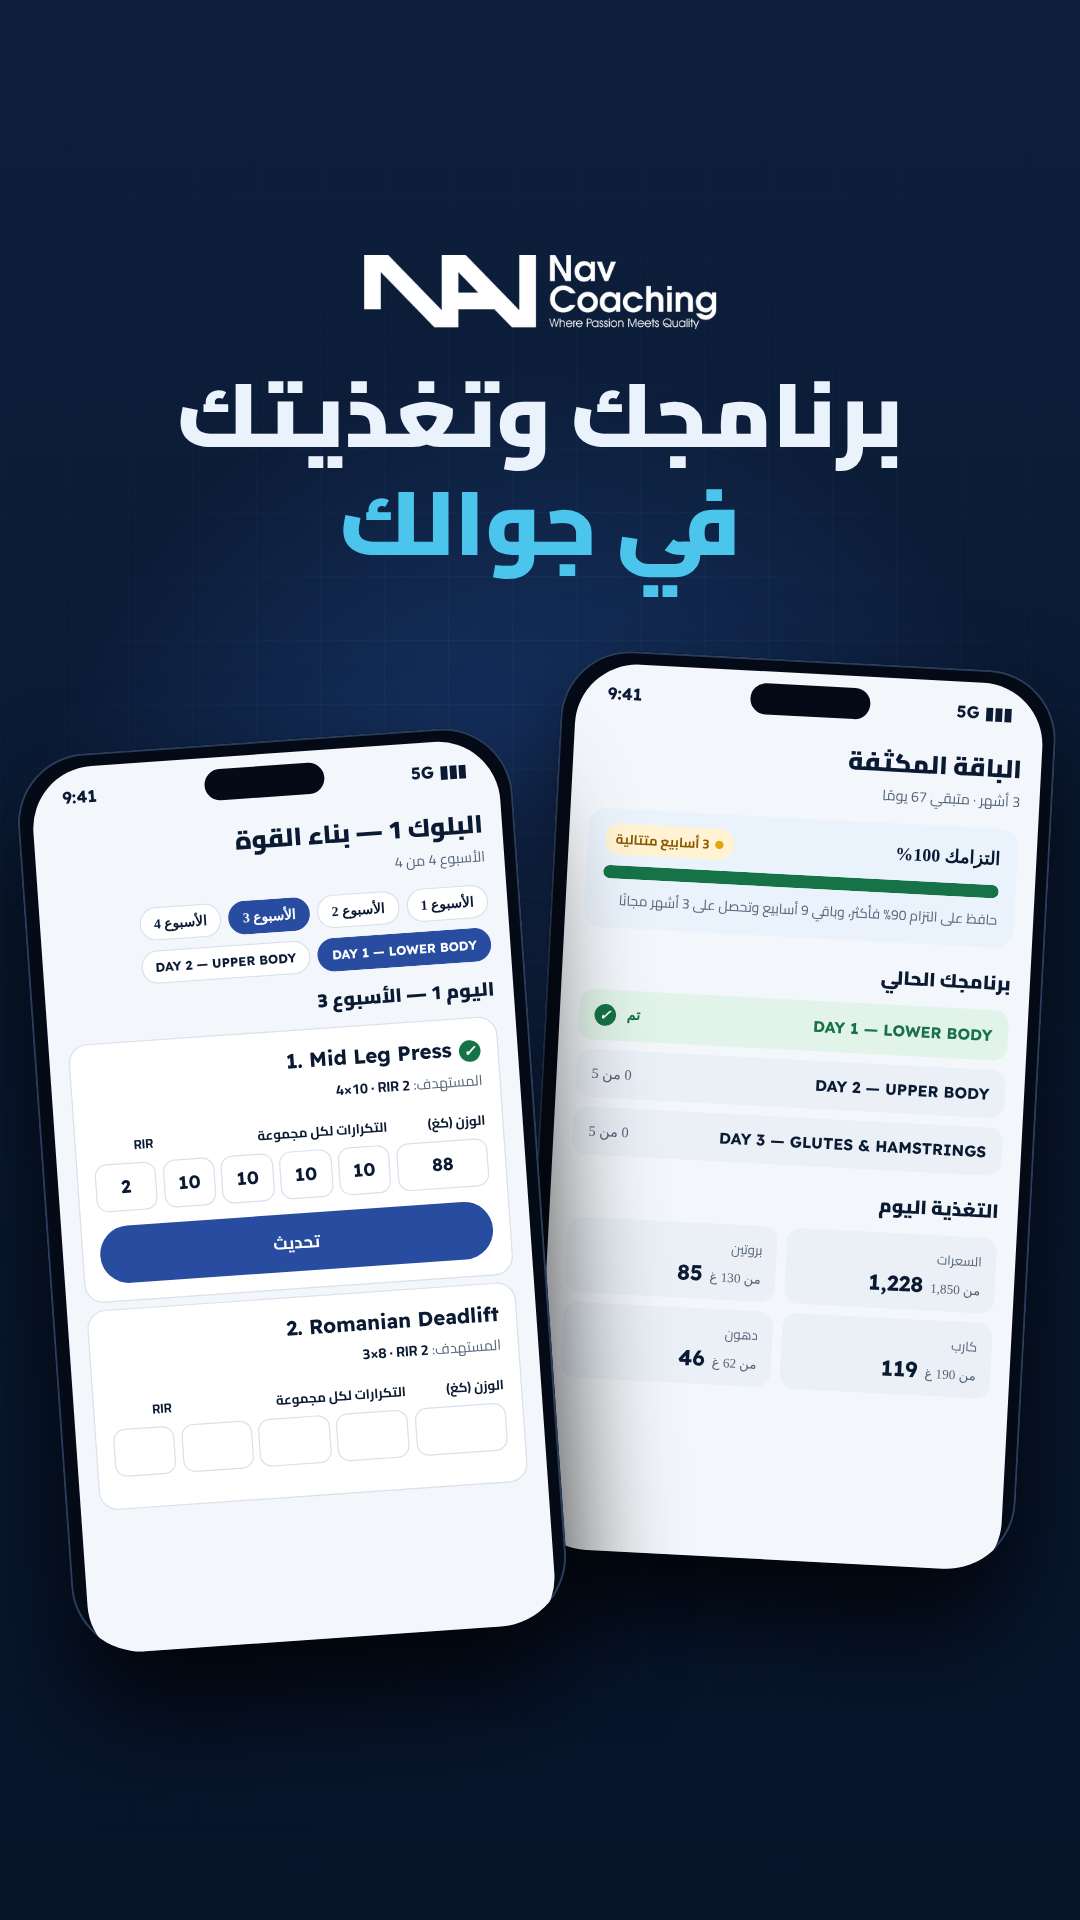
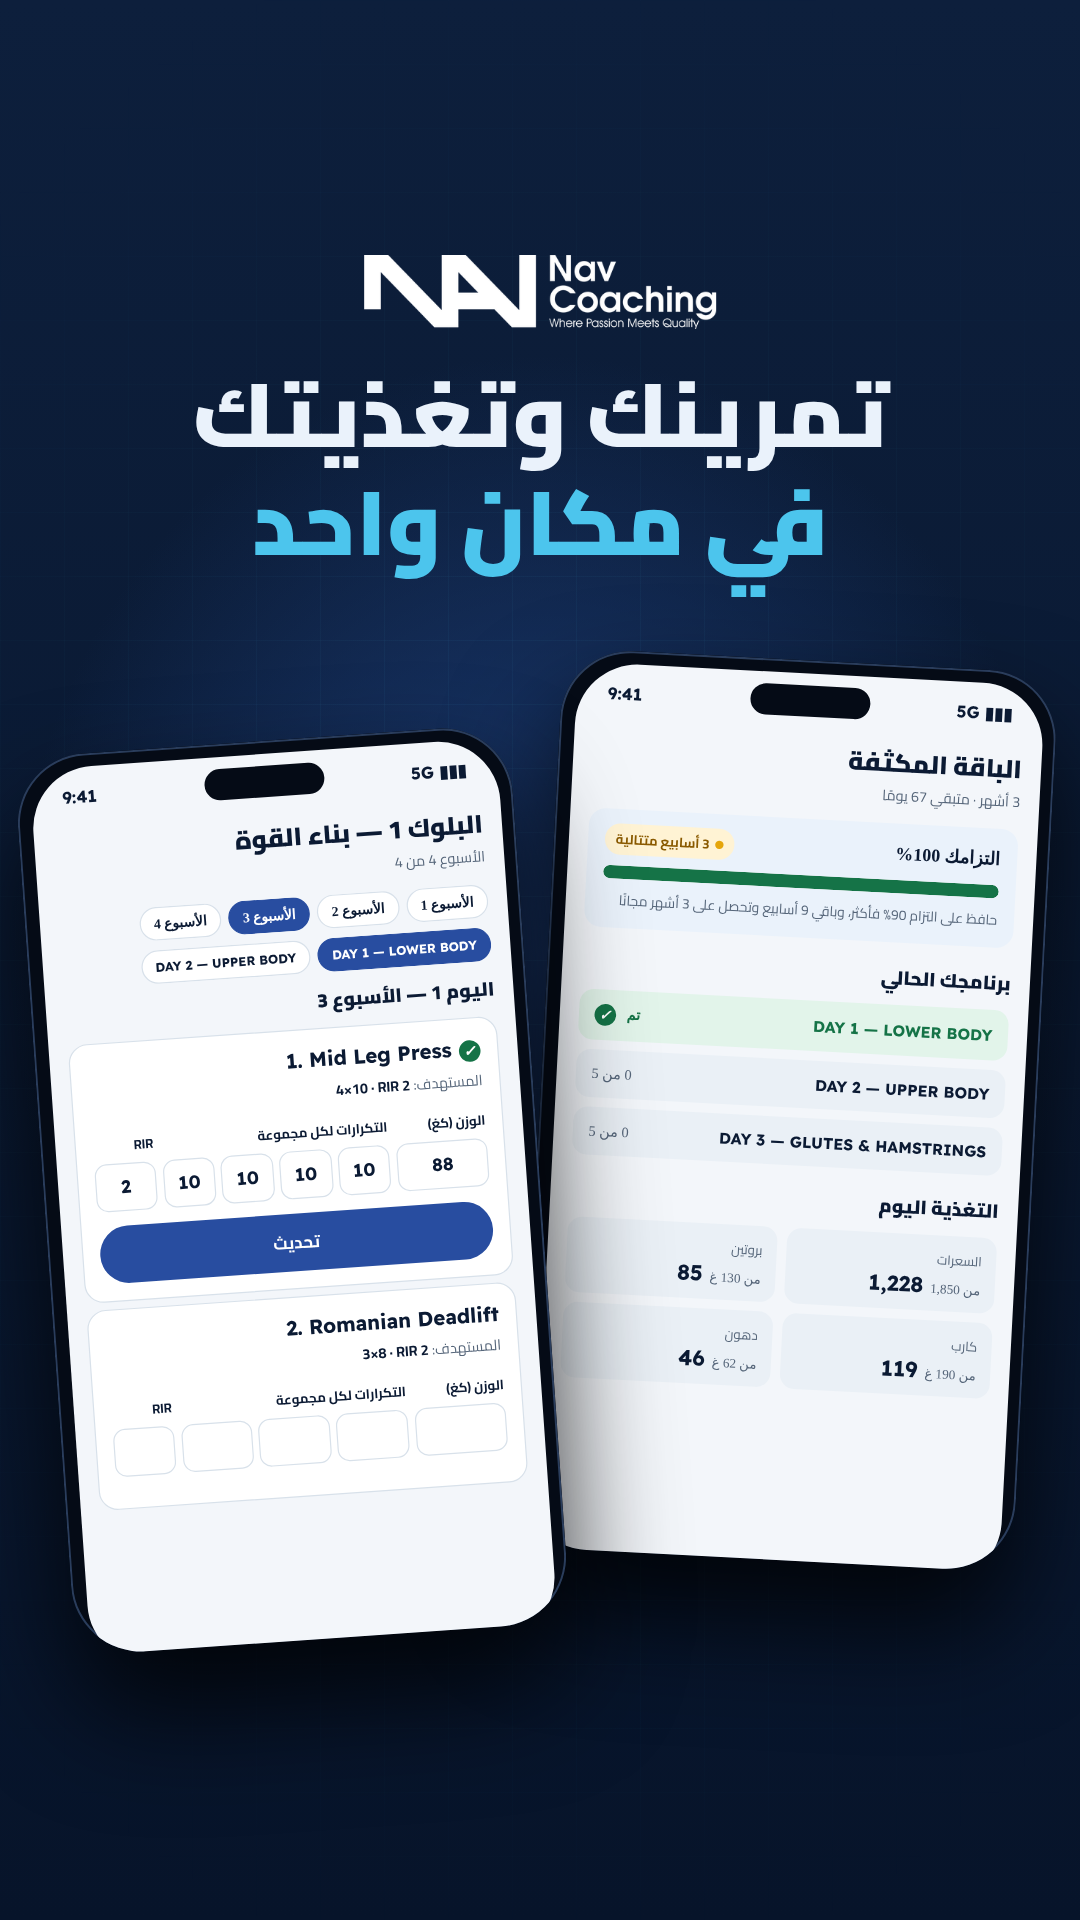
Change phone story headline to 'تمرينك وتغذيتك في مكان واحد'
Claude-Session: https://claude.ai/code/session_018Z9fQ6WXKqVkgdznS9iWHe

Changed region(s): [[0.1528, 0.1875, 0.8556, 0.3125]]

diff --git a/story-phone.html b/story-phone.html
@@ -44,7 +44,7 @@ h2{font:900 21px/1.25 Cairo;margin:6px 0 2px}.sub{font-size:12px;color:var(--mut
 .ok{display:inline-block;width:18px;height:18px;border-radius:50%;background:var(--ok);color:#fff;font-size:12px;line-height:18px;text-align:center;vertical-align:middle;margin-inline-start:6px}
 </style></head><body>
 <img class="logo" src="brand/logo-white.webp" alt="Nav Coaching">
-<h1>برنامجك وتغذيتك<br><em>في جوالك</em></h1>
+<h1>تمرينك وتغذيتك<br><em>في مكان واحد</em></h1>
 
 <div class="phone p1"><div class="screen">
  <div class="island"></div><div class="status"><span>9:41</span><span>5G ▮▮▮</span></div>
